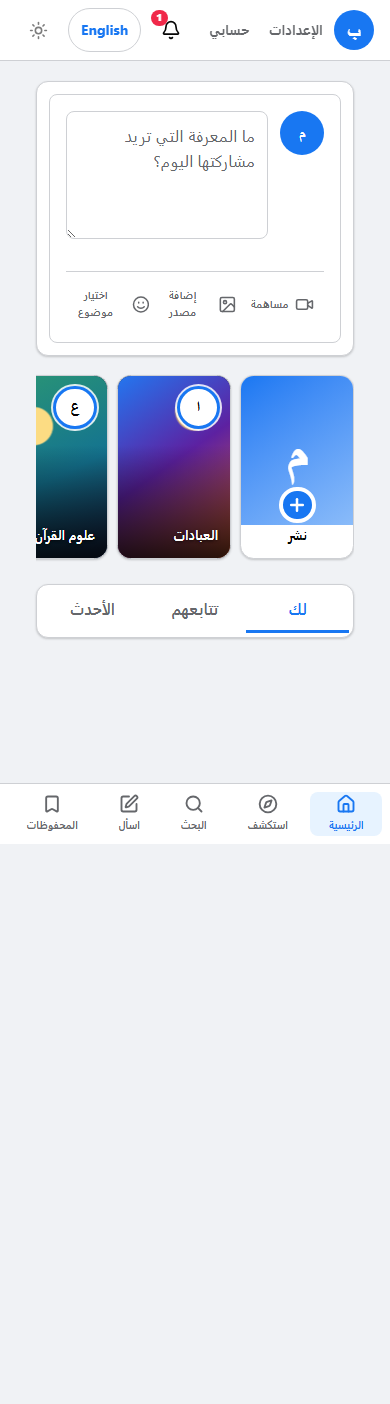
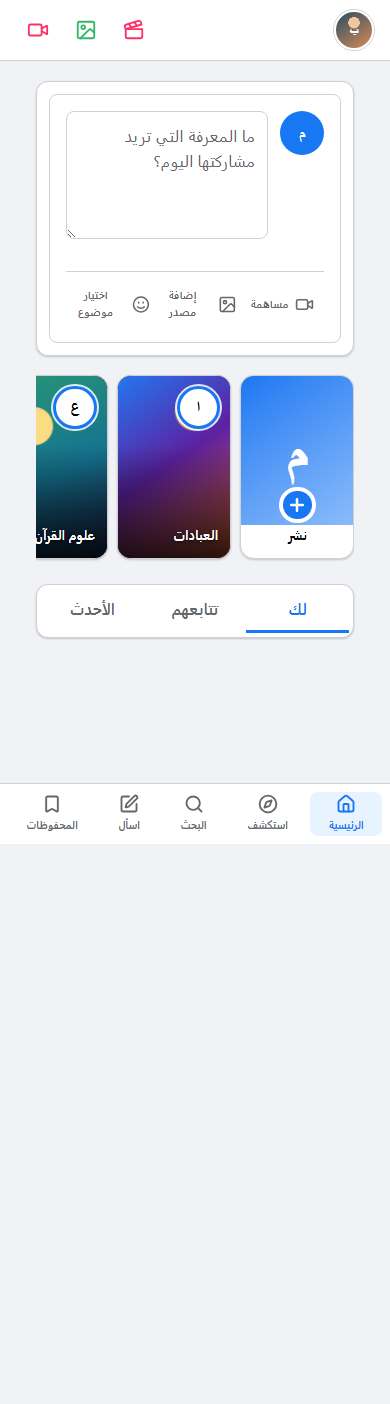
test(qa): verify compact social header

diff --git a/e2e/stitch-visual.e2e.ts b/e2e/stitch-visual.e2e.ts
@@ -15,6 +15,12 @@ test.describe("Mounir Stitch shell visual contract", () => {
     await expect(page.locator("html")).toHaveAttribute("dir", "rtl");
     await expect(search).toBeVisible();
     await expect(actions).toBeVisible();
+    await expect(page.locator(".app-shell__topnav")).toBeHidden();
+    await expect(actions.locator(".social-media-actions a")).toHaveCount(3);
+    await expect(actions.locator("a[aria-label='فيديو مباشر']")).toBeVisible();
+    await expect(actions.locator("a[aria-label='إضافة صورة']")).toBeVisible();
+    await expect(actions.locator("a[aria-label='إنشاء مقطع']")).toBeVisible();
+    await expect(actions.locator(".shell-actions, .shell-control, .app-shell__notifications")).toHaveCount(0);
     await expect(navigation).toBeVisible();
     await expect(rail).toBeVisible();
     await expect(page.locator(".feed-stories")).toBeVisible();

diff --git a/workflow/handoffs/qa-agent-compact-social-header-v1.md b/workflow/handoffs/qa-agent-compact-social-header-v1.md
@@ -1,0 +1,43 @@
+# Handoff: qa-agent / compact-social-header-v1
+
+- Status: `review`
+- Base ref: `0eff495`
+- Result ref: `committed handoff; see repository HEAD`
+- Tasks completed: `QA-COMPACT-HEADER-001`
+
+## Delivered outputs
+
+| Path | Purpose |
+|---|---|
+| `e2e/stitch-visual.e2e.ts` | Exact compact header structure and removed-control assertions |
+| `reports/qa/compact-social-header-v1.md` | Focused QA evidence |
+| `reports/qa/screenshots/stitch-desktop-1440.png` | Updated desktop evidence |
+| `reports/qa/screenshots/stitch-mobile-390.png` | Updated mobile evidence |
+
+## Acceptance evidence
+
+| Criterion | Evidence/command | Result |
+|---|---|---|
+| Profile/search/three actions | Stitch assertions | pass |
+| Removed controls and hidden strip | Negative and visibility assertions | pass |
+| Search, responsive overflow, mobile nav | Focused cross-browser run | pass — 18/18 |
+
+## Decisions and assumptions
+
+- Media actions are demo links to the composer, not capture/upload controls.
+
+## Open risks and deferred work
+
+- Real media capture/upload remains deferred.
+
+## Cross-owner requests
+
+- none
+
+## Boundary check
+
+- Command: `./.github/scripts/Invoke-AgentBoundaryPS51.ps1 -AgentId qa-agent -BaseRef 0eff495`
+- Result: `pass — 5 QA-owned files checked`
+
+The agent stops after creating this handoff. Only the orchestrator may accept it and activate
+the successor.

diff --git a/reports/qa/compact-social-header-v1.md b/reports/qa/compact-social-header-v1.md
@@ -1,0 +1,8 @@
+# Compact social header QA
+
+- Profile/brand mark, wide search, and exactly three named media actions are present.
+- Desktop destination strip, settings/account actions, notification, language, and theme controls are absent from the compact header.
+- Search keyboard submission remains functional.
+- Mobile bottom navigation remains available; both side rails collapse.
+- Mobile, tablet, and desktop document overflow gates pass.
+- Focused Chromium/Firefox/WebKit run: 18/18 passed.
